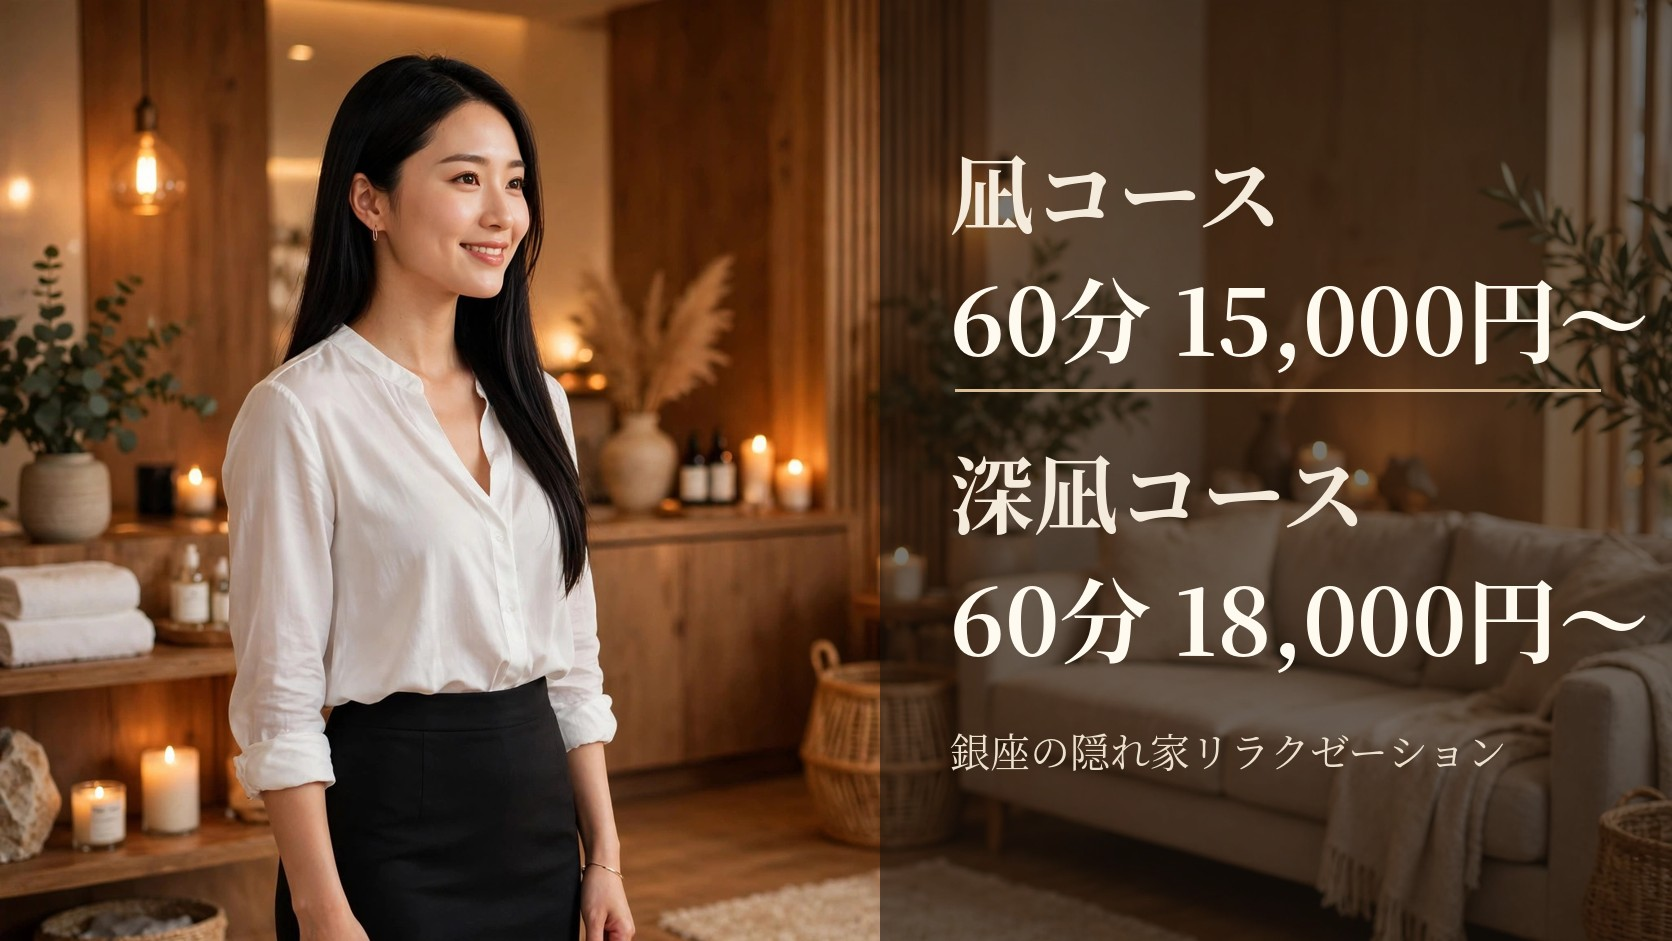
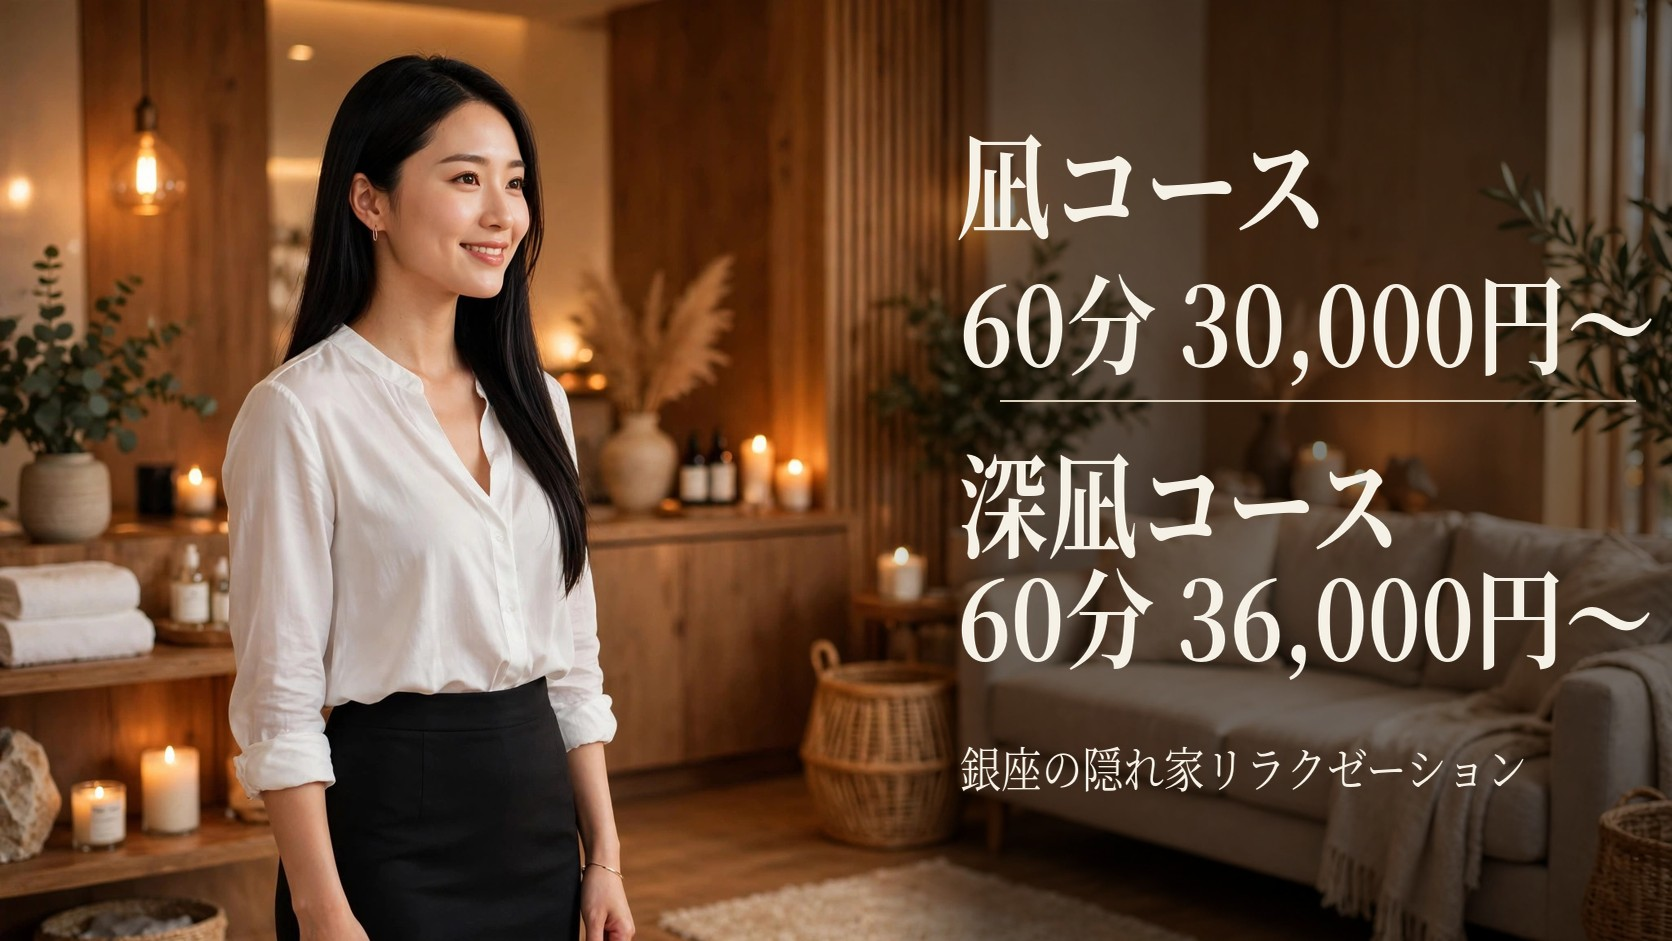
ME-GINZA v5: banner3 prices 30k/36k + wholesome extension blurb

Changed region(s): [[0.5287, 0.0, 0.9952, 0.4315], [0.5287, 0.4623, 0.9952, 0.7088], [0.5287, 0.7088, 0.9019, 1.0]]

diff --git a/index.html b/index.html
@@ -1550,7 +1550,7 @@
 <div class="articleWrap">
 	<h3 class="titlebar">『凪の余韻』</h3>
 	<div class="play_article">
-	<div style="text-align: center;">凪30分　14,000円<br />深凪30分　16,000円<br /><br /><strong>本来はしたくない&ldquo;凪の余韻&ldquo;</strong><br /><strong>貴方となら喜んで二人だけの秘密の時間を過ごします。</strong></div>
+	<div style="text-align: center;">凪30分　14,000円<br />深凪30分　16,000円<br /><br /><strong>&ldquo;凪の余韻&rdquo;</strong><br /><strong>施術の心地よさを、もう三十分。静かな余韻の時間をお過ごしください。</strong></div>
 	</div>
 </div>
 <div class="articleWrap">
